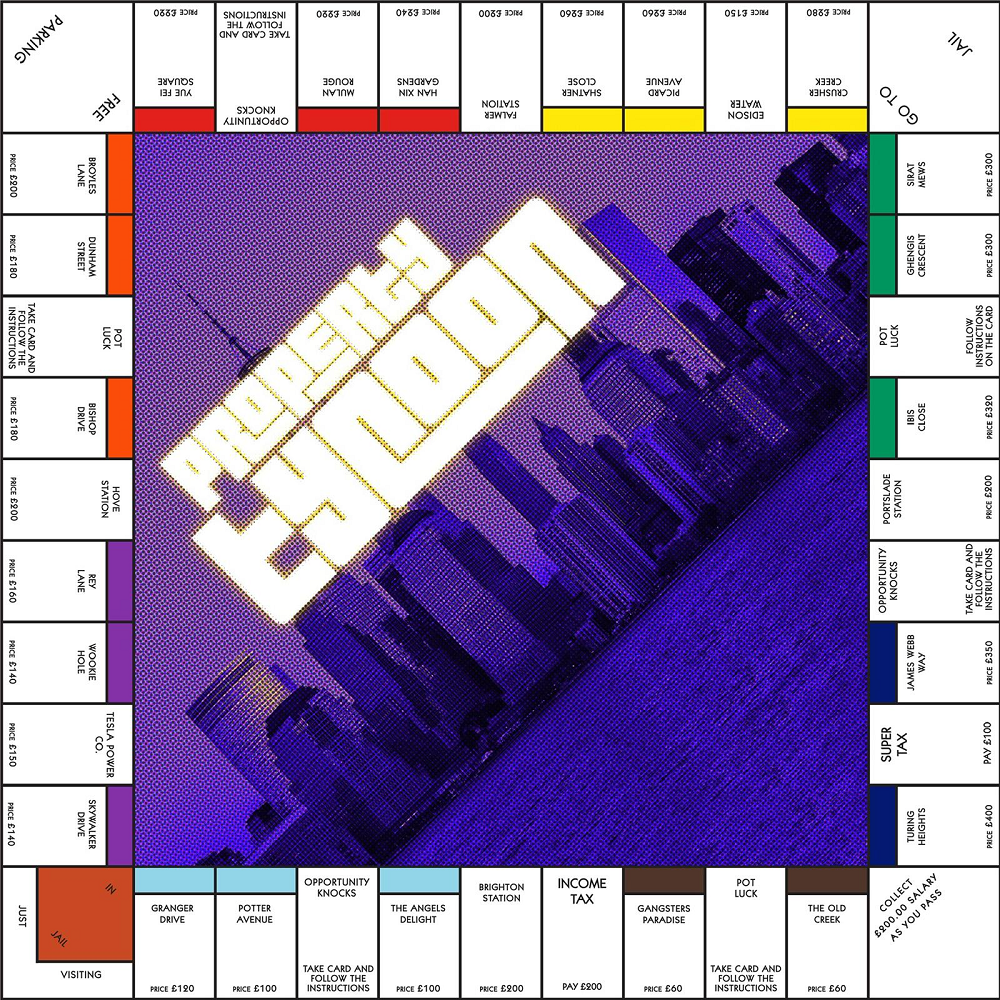
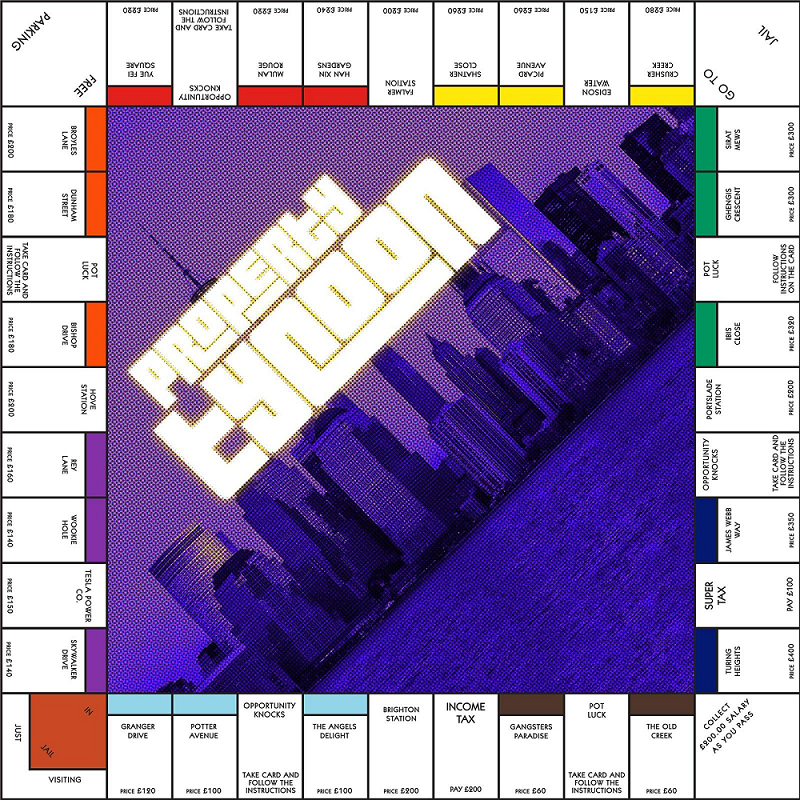
Add board  to Game

diff --git a/tycoon/src/pages/Game.css b/tycoon/src/pages/Game.css
@@ -2,6 +2,11 @@
     width: auto;
     background-color: rgb(255, 250, 240);
     height: 60rem;
+    display: flex;
+    flex-direction: column;
+    align-content: center;
+    justify-content: center;
+    align-items: center;
 }
 .title {
     display: flex;
@@ -10,4 +15,9 @@
     justify-content: center;
     align-items: center;
     align-content: space-around;
+}
+.board{
+    width: 800px;
+    height: 800px;
+    background-image: url('../../pictures/tycoon.png');
 }

diff --git a/tycoon/src/pages/Game.jsx b/tycoon/src/pages/Game.jsx
@@ -9,6 +9,7 @@ function Game() {
         Game
       </div>
       WELLCOME TO THE GAME
+      <div className="board" />
     </div>
   );
 }
